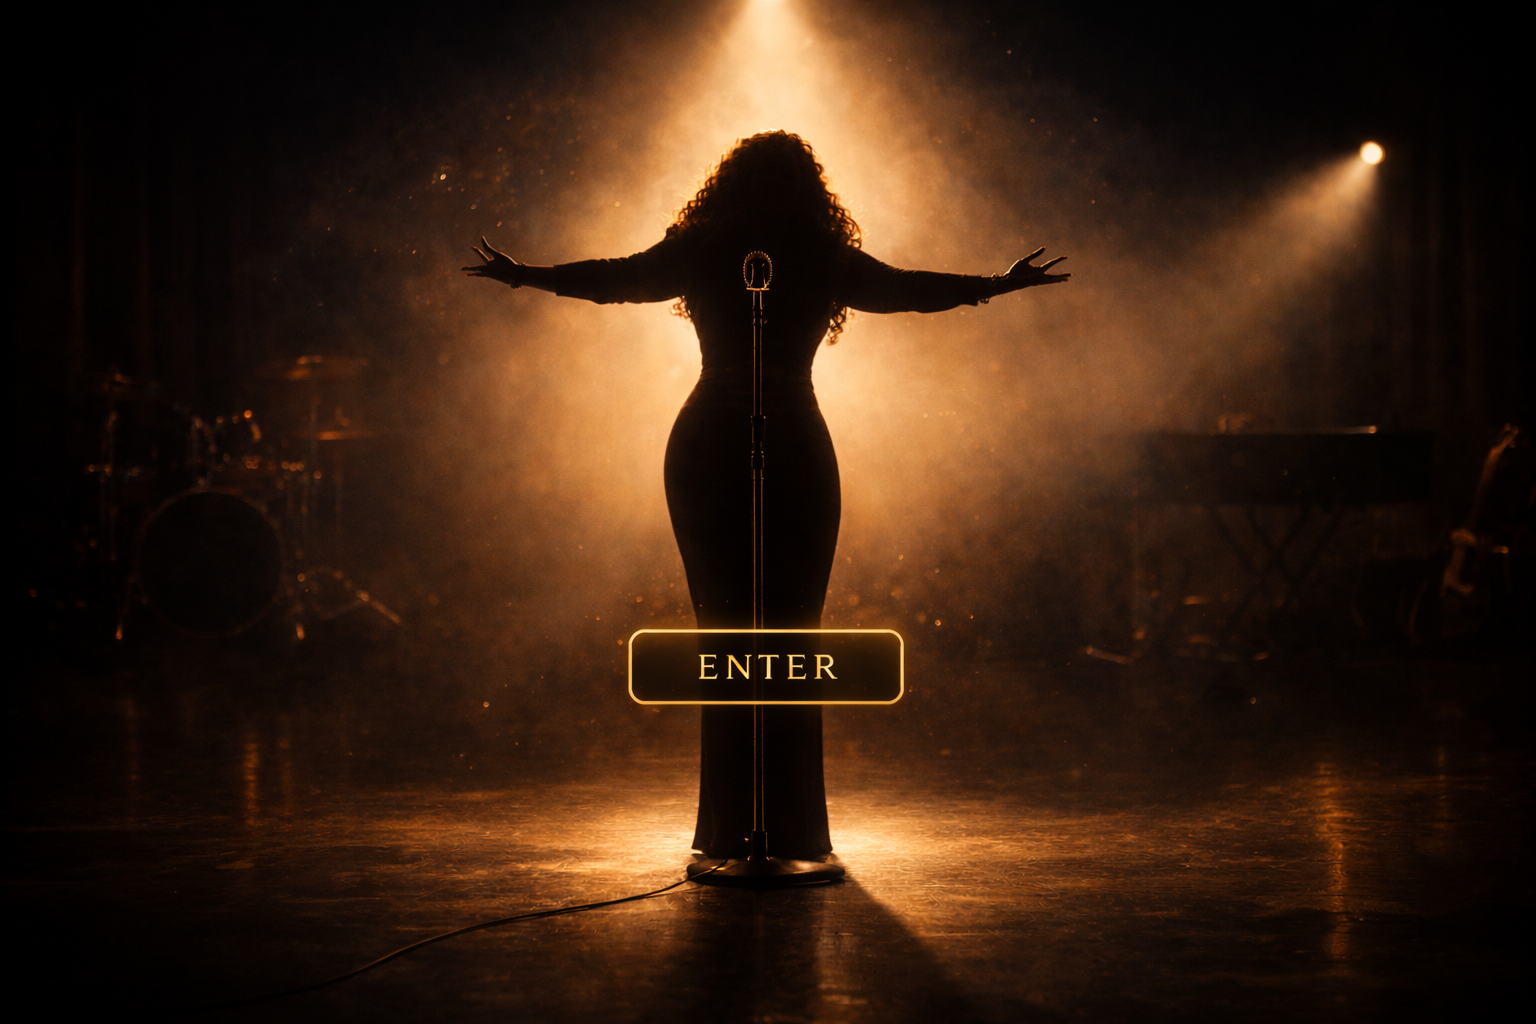
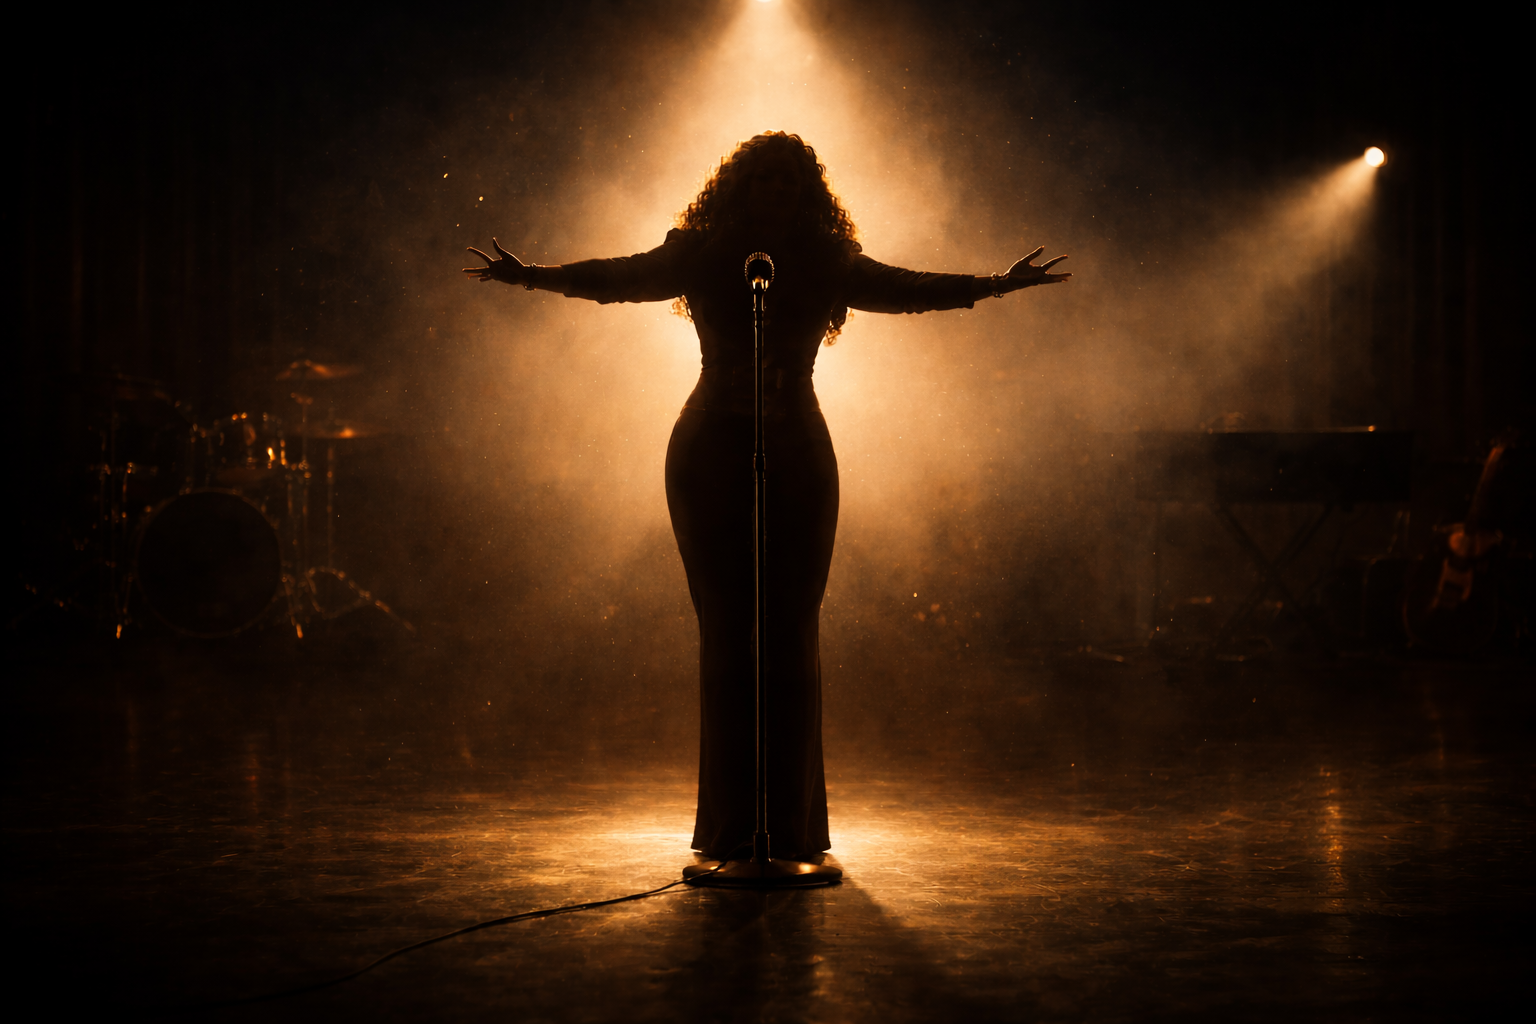
Style visible ENTER button with gold border, update clean bg image
- Remove .btn class conflict — use standalone .btn-enter-stage
- Gold outlined button with serif font matching design
- Updated background image (no baked-in text)

diff --git a/css/pages.css b/css/pages.css
@@ -47,6 +47,33 @@
   display: none;
 }
 
+/* ENTER button — gold outlined rectangle matching the design */
+.btn-enter-stage {
+  display: inline-flex;
+  align-items: center;
+  justify-content: center;
+  padding: 1.1rem 5rem;
+  font-family: 'Playfair Display', 'Didot', 'Georgia', serif;
+  font-size: 1.5rem;
+  letter-spacing: 0.25em;
+  text-transform: uppercase;
+  color: #ffd700;
+  background: rgba(10, 10, 10, 0.5);
+  border: 2px solid rgba(255, 215, 0, 0.7);
+  border-radius: 12px;
+  text-decoration: none;
+  cursor: pointer;
+  transition: background 0.3s ease, color 0.3s ease,
+              box-shadow 0.3s ease, border-color 0.3s ease;
+}
+
+.btn-enter-stage:hover {
+  background: rgba(255, 215, 0, 0.15);
+  border-color: #ffd700;
+  box-shadow: 0 0 30px rgba(255, 215, 0, 0.3);
+  color: #fff;
+}
+
 /* =============================================
    Services Page
    ============================================= */

diff --git a/pages/entertainment/home.html b/pages/entertainment/home.html
@@ -12,10 +12,9 @@
       <p class="hero-subtitle" style="font-style: italic; opacity: 0.85;">
         Step Into the Experience
       </p>
-      <!-- ENTER button is part of the background image; invisible clickable overlay -->
       <div class="hero-actions" style="justify-content: center; margin-top: var(--space-xl);">
-        <a href="#ent-roster" class="btn" style="padding: 1.2rem 5rem; background: transparent; border: none; color: transparent; position: relative; z-index: 3; cursor: pointer;" aria-label="Enter Entertainment">
-          Enter
+        <a href="#ent-roster" class="btn-enter-stage" aria-label="Enter Entertainment">
+          ENTER
         </a>
       </div>
     </div>
